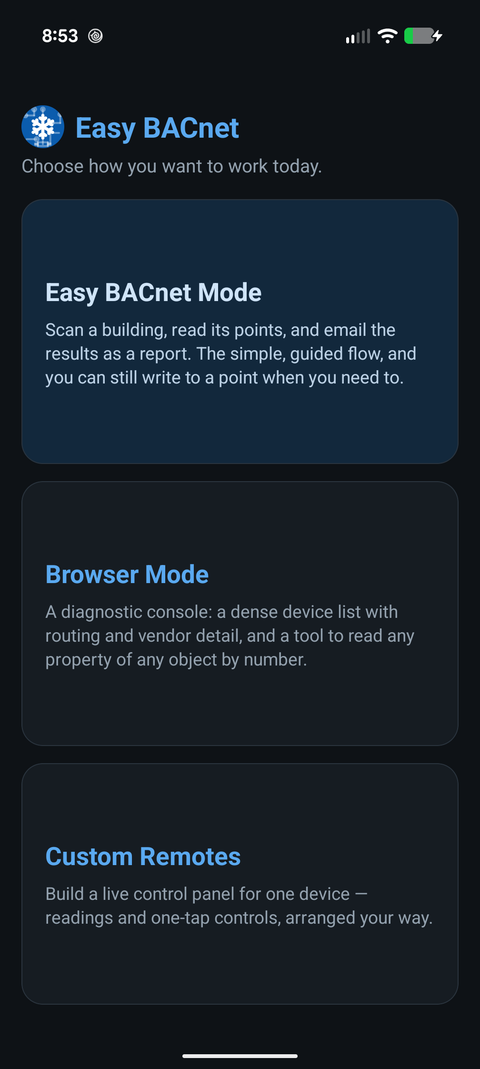
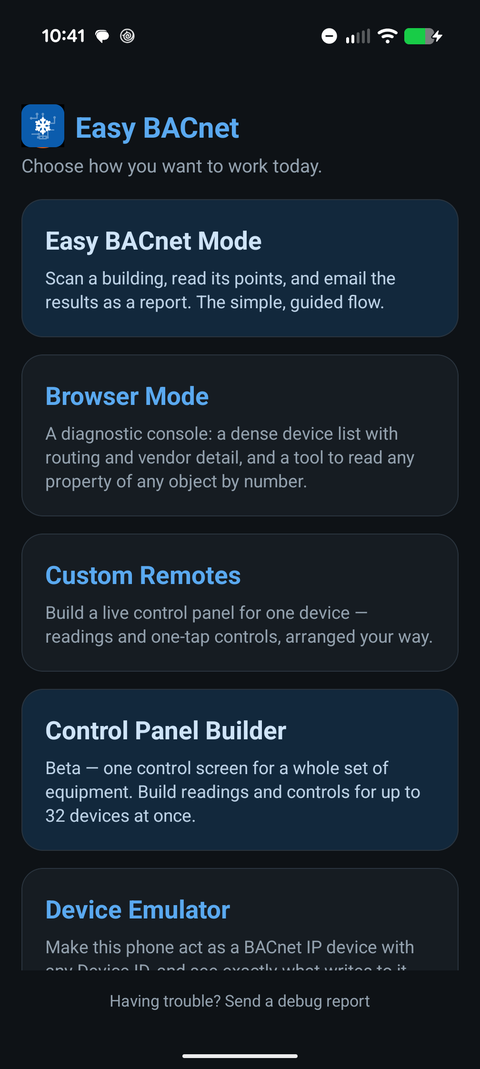
Guides: annotated Device Emulator screenshots, five-card start screen, Control Panel Builder no longer beta

diff --git a/build_site.py b/build_site.py
@@ -170,6 +170,9 @@ CSS = """
   footer { margin-top:3.5rem; padding-top:1.5rem; border-top:1px solid var(--line);
            color:var(--muted); font-size:.9rem; }
   footer a { color:var(--accent); }
+  .shotkey { margin:.2rem 0 1.6rem; padding-left:1.1rem; font-size:.95rem; }
+  .shotkey li { margin:.25rem 0; }
+  .shotrow.big figure { flex:0 1 300px; }
   .shotrow { display:flex; flex-wrap:wrap; gap:1rem; margin:1.75rem 0; }
   .shotrow figure { margin:0; flex:0 1 200px; }
   .shotrow img { width:100%; height:auto; border:1px solid var(--line);
@@ -202,7 +205,7 @@ CSS = """
 
 
 SCREENSHOTS = {
-    "guides/how-to-use-easy-bacnet": [("picker.png","Choose a mode on the home screen"),
+    "guides/how-to-use-easy-bacnet": [("picker.png","Choose a mode: five cards"),
         ("scan.png","A finished scan"),
         ("devices.png","Every device found"),("points.png","One device\u2019s points")],
     "guides/how-to-write-to-a-bacnet-point": [("point.png","Point detail, showing who is commanding it"),
@@ -1236,7 +1239,7 @@ GUIDES.append(dict(
 GUIDES.append(dict(
     slug="guides/how-to-use-easy-bacnet",
     title="How to Scan for Your BACnet Points List | Easy BACnet",
-    updated="2026-11-19",
+    updated="2026-11-21",
     question="How do I scan for my BACnet points list?",
     description="Step by step: get on the controls network, scan for BACnet IP devices, check their points, and share the whole lot as an Excel report from your phone.",
     answer_html="""<p>Get the phone onto the same network as the building controls
@@ -1272,7 +1275,7 @@ GUIDES.append(dict(
   <p>The first time you open the app it asks you to <strong>Choose your
   language</strong> (English, Espa&ntilde;ol, Deutsch, Fran&ccedil;ais, Portugu&ecirc;s
   or Thai) and to accept a short safety notice (<strong>I Agree</strong>). After that
-  it opens on <em>Choose how you want to work today</em> with four cards:</p>
+  it opens on <em>Choose how you want to work today</em> with five cards:</p>
   <ul>
     <li><strong>Easy BACnet Mode</strong> &mdash; the scan, read and export flow
     this guide covers.</li>
@@ -1280,13 +1283,13 @@ GUIDES.append(dict(
     vendor detail, and a tool to read any property of any object by number.</li>
     <li><strong>Custom Remotes</strong> &mdash; your own control screen for one device
     (<a href="how-to-build-a-custom-remote.html">guide</a>).</li>
+    <li><strong>Control Panel Builder</strong> &mdash; one control screen for up to 32
+    devices (<a href="how-to-build-a-control-panel.html">guide</a>).</li>
     <li><strong>Device Emulator</strong> &mdash; the phone answers as a BACnet IP device
     with the Device ID you choose and logs every write sent to it
     (<a href="bacnet-device-emulator-check-writes.html">guide</a>).</li>
   </ul>
-  <p>Testers on the beta version also see a fifth card, <strong>Control Panel
-  Builder</strong> (<a href="how-to-build-a-control-panel.html">guide</a>). Tap
-  <strong>Easy BACnet Mode</strong>.</p>
+  <p>Tap <strong>Easy BACnet Mode</strong>.</p>
 
   <h2>Step 2 &mdash; Scan</h2>
   <p>The scan screen shows the network your phone is on and its IP address, so you
@@ -1663,7 +1666,7 @@ GUIDES.append(dict(
     <li><strong>Import:</strong> on <strong>My Remotes</strong>, menu &rarr; <strong>Import
     remote</strong>, then pick the <code>.ebremote</code> file. If you already have a remote for
     that device, the app asks <em>Replace the existing remote?</em> first. Control-panel files
-    (<code>.ebpanel</code>, from the beta Control Panel Builder) can't be opened here.</li>
+    (<code>.ebpanel</code>, from the Control Panel Builder) can't be opened here.</li>
   </ul>
   <p>The file is plain JSON holding the layout, the device's ID and its last known address. It
   holds no values from the building.</p>
@@ -1697,10 +1700,9 @@ GUIDES.append(dict(
     slug="guides/how-to-build-a-control-panel",
     title="Build a multi-device BACnet control panel | Easy BACnet",
     question="How do I build a custom BACnet control panel for several devices in Easy BACnet?",
-    description="Beta: build one live control screen for up to 32 BACnet IP devices with the Control Panel Builder. Devices, grid width, controls and sharing.",
-    answer_html="""<p>The Control Panel Builder is a <strong>beta</strong> feature: it is
-    only in the beta version of Easy BACnet, not the standard Play Store release. In the beta
-    app, tap <strong>Control Panel Builder</strong> on the opening screen, then <strong>New
+    updated="2026-11-21",
+    description="Build one live control screen for up to 32 BACnet IP devices with the Control Panel Builder: devices, grid width, controls and sharing.",
+    answer_html="""<p>Tap <strong>Control Panel Builder</strong> on the opening screen, then <strong>New
     panel</strong> (the <strong>+</strong> in the top bar, or <strong>Create a Panel</strong>).
     Pick the first device from your scan and name the panel; it opens in Edit mode. Tap
     <strong>Add Control</strong> to place a readout, setpoint, toggle, button, multi-state picker
@@ -1711,10 +1713,9 @@ GUIDES.append(dict(
     with up to 32 devices each.</p>""",
     body_html="""
   <div class="callout">
-  <p><strong>Beta feature.</strong> The Control Panel Builder is only in the beta version of
-  Easy BACnet; the standard Play Store release does not include it. It works end to end, but
-  check each control against the equipment the first time you use it. Panels are saved on your
-  phone and can be shared as <code>.ebpanel</code> files.</p>
+  <p><strong>Check each control the first time.</strong> Before you rely on a new panel,
+  check every control against the equipment it drives. Panels are saved on your phone and
+  can be shared as <code>.ebpanel</code> files.</p>
   </div>
 
   <h2>Remote or control panel?</h2>
@@ -2908,6 +2909,15 @@ GUIDES.append(dict(
     <li><strong>Refused writes.</strong> A setpoint sent as the wrong data type, or a write to
     an input. The emulator shows the reason a real controller would give.</li>
   </ul>
+
+  <div class="shotrow big"><figure><img src="../img/emu-writes.png" alt="Writes received, with two refused writes and a priority 16 write marked" width="480" height="1069" loading="lazy"><figcaption>The write log after a supervisor's commands</figcaption></figure></div>
+  <ol class="shotkey">
+    <li><strong>1:</strong> a write to a read-only input, refused: &ldquo;read-only input&rdquo;.</li>
+    <li><strong>2:</strong> a setpoint sent as the wrong data type, refused with the reason.</li>
+    <li><strong>3:</strong> a write with no priority lands at 16. It was accepted, but the
+    point still reads 70 because priority 8 holds it. This is the classic &ldquo;the BMS
+    sent it and nothing happened&rdquo;.</li>
+  </ol>
   <p>The free version emulates one Device ID with up to three points; Easy BACnet Pro removes
   the limits. Step by step: <a href="bacnet-device-emulator-check-writes.html">how to check
   what a BMS writes</a>.</p>
@@ -2977,6 +2987,16 @@ GUIDES.append(dict(
   <p>Tap <strong>Start emulator</strong>. The screen shows the Device ID, the phone's IP
   address and port, and live counts of Who-Is requests, reads and writes.</p>
 
+  <div class="shotrow big"><figure><img src="../img/emu-setup.png" alt="Device Emulator setup screen with the Device ID, auto-create option and free-version limit marked" width="480" height="1069" loading="lazy"><figcaption>Setting up the device</figcaption></figure><figure><img src="../img/emu-points.png" alt="Device Emulator points list, Run in background switch and Start button marked" width="480" height="1069" loading="lazy"><figcaption>Points, background, start</figcaption></figure></div>
+  <ol class="shotkey">
+    <li><strong>Left, 1:</strong> the Device ID the supervisor expects.
+    <strong>2:</strong> create any point a client touches.
+    <strong>3:</strong> the free version: one Device ID, up to three points.</li>
+    <li><strong>Right, 1:</strong> your own points (here a setpoint, a fan command and a
+    read-only fan status). <strong>2:</strong> Run in background.
+    <strong>3:</strong> Start emulator.</li>
+  </ol>
+
   <div class="callout">
   <p><strong>Don't run two devices with the same ID.</strong> If the real controller is
   still on the network, mimicking its Device ID creates a
@@ -3006,6 +3026,15 @@ GUIDES.append(dict(
     reason, for example the wrong data type for that object. A real controller would refuse
     it the same way.</li>
   </ul>
+
+  <div class="shotrow big"><figure><img src="../img/emu-writes.png" alt="Writes received, with two refused writes and a priority 16 write marked" width="480" height="1069" loading="lazy"><figcaption>The write log after a supervisor's commands</figcaption></figure></div>
+  <ol class="shotkey">
+    <li><strong>1:</strong> a write to a read-only input, refused: &ldquo;read-only input&rdquo;.</li>
+    <li><strong>2:</strong> a setpoint sent as the wrong data type, refused with the reason.</li>
+    <li><strong>3:</strong> a write with no priority lands at 16. It was accepted, but the
+    point still reads 70 because priority 8 holds it. This is the classic &ldquo;the BMS
+    sent it and nothing happened&rdquo;.</li>
+  </ol>
   <p><strong>Points on this device</strong> shows each point's current value and which
   priority is commanding it, and the activity log can be copied to paste into a report or
   an email.</p>
